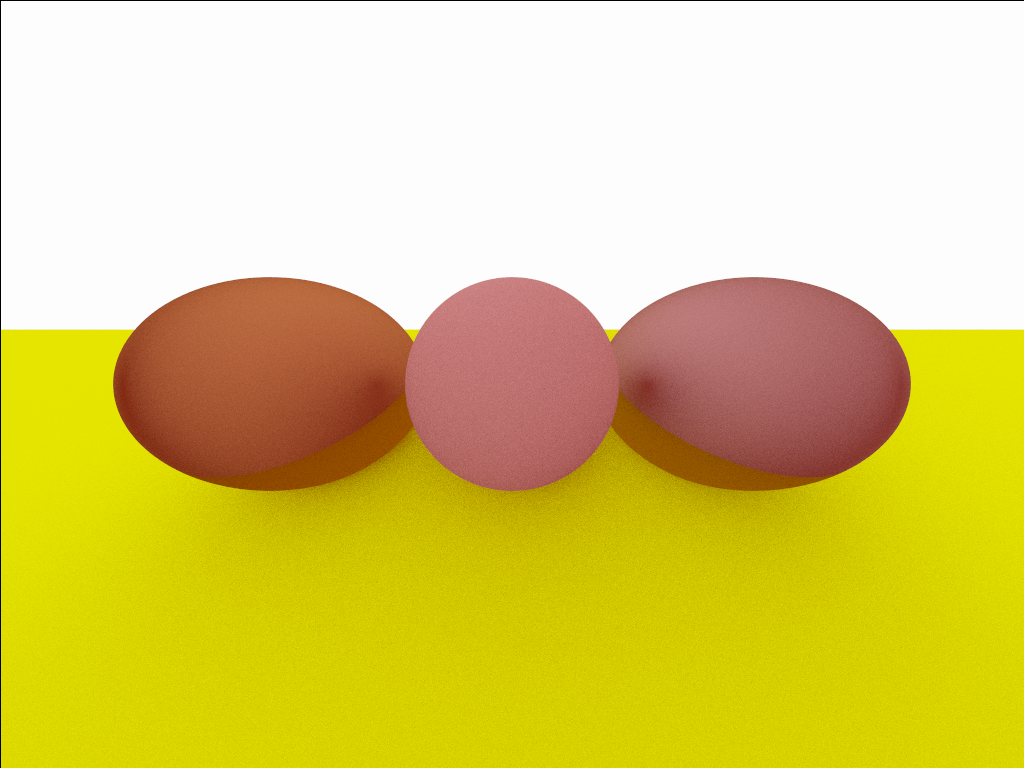
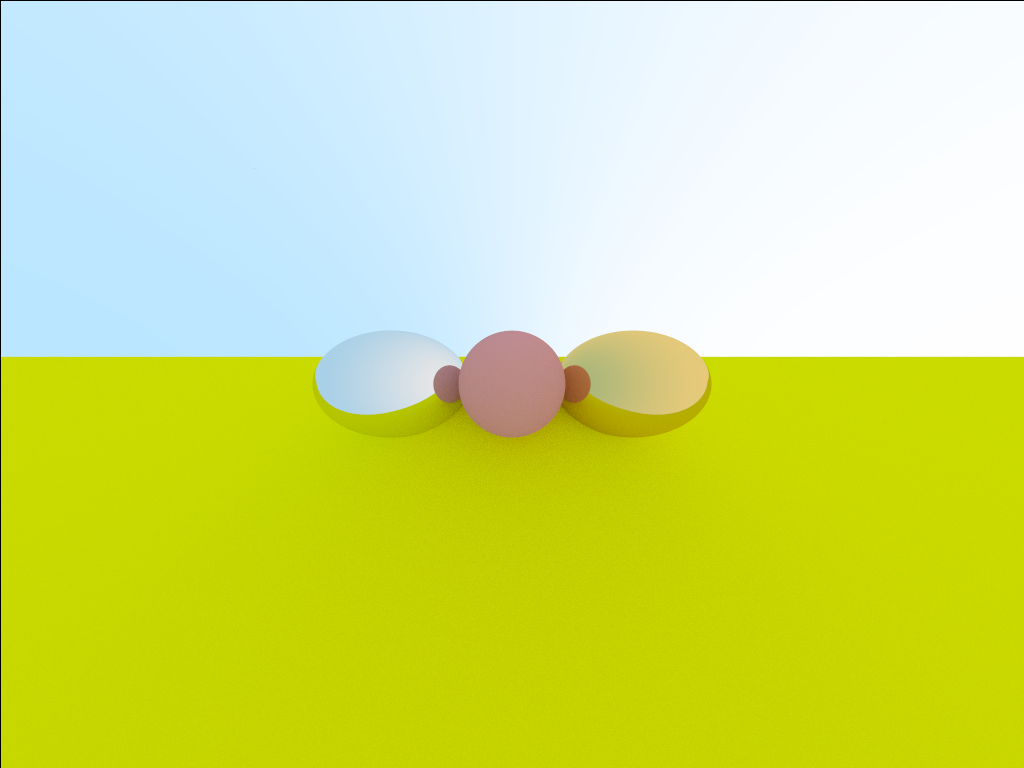
Multi-threading average + metal

diff --git a/src/main.cpp b/src/main.cpp
@@ -3,6 +3,7 @@
 #include <memory>
 #include <string>
 #include <cstdlib>
+#include <thread>
 
 #include "Define.h"
 #include "Vector3.h"
@@ -20,42 +21,49 @@ int main(){
 // Set the random seed
 srand( (unsigned)time(NULL) );
 
-
 // Create the camera
 Triplet cam_pos(-1.5,0,1.5);
 Triplet cam_look(0,0,0);
 Vector3 cam_vec(cam_pos, cam_look);
-Camera camera(cam_vec, 1., 1024, 768, 0.005, Colour(0,0,0));
+int scale = 1;
+Camera camera(cam_vec, 1., 1024/scale, 768/scale, scale*0.01, Colour(0,0,0));
 
 // Create the materials
-auto material_ground = std::make_shared<Lambertian>(Colour(0.8, 0.8, 0));
+auto material_ground = std::make_shared<Lambertian>(Colour(0.8, 0.8, 0.0));
 auto material_center = std::make_shared<Lambertian>(Colour(0.7, 0.3, 0.3));
 auto material_left   = std::make_shared<Metal>(Colour(0.8, 0.8, 0.8));
 auto material_right  = std::make_shared<Metal>(Colour(0.8, 0.6, 0.2));
 
 // Create the objects
 Hittable_list scene;
-Triplet A(-3.0,  0.0,-0.5);
-Triplet B( 2.0,-50.0,-0.5);
-Triplet C( 2.0, 50.0,-0.5);
+Triplet A(-20.0,  0.0, -0.5);
+Triplet B( 2.0, -50.0, -0.5);
+Triplet C( 2.0,  50.0, -0.5);
+
 scene.add(std::make_shared<Triangle>(A, B, C, material_ground));
-scene.add(std::make_shared<Sphere>(Triplet( 0.0, 0.0, 0.0), 1, material_center));
-scene.add(std::make_shared<Sphere>(Triplet( 0.0,-2.0, 0.0), 1, material_left));
-scene.add(std::make_shared<Sphere>(Triplet( 0.0, 2.0, 0.0), 1, material_right));
+scene.add(std::make_shared<Sphere>(Triplet( 0.0,    2.0,    0.0),   1.0, material_left));
+scene.add(std::make_shared<Sphere>(Triplet( 0.0,    0.0,    0.0),   1.0, material_center));
+scene.add(std::make_shared<Sphere>(Triplet( 0.0,   -2.0,    0.0),   1.0, material_right));
 
-
-//  Triangle tri(A,B,C,Colour(255,255,255));
-//
-//  Triplet c(0,0,0);
-//  Sphere sph(c, 1, Colour(0,255,0));
-//
-//  scene.add(std::make_shared<Triangle>(A,B,C,Colour(255,255,255)));
-//  scene.add(std::make_shared<Sphere>(sph));
 
 // Render
 const unsigned int max_depth=50;
-const unsigned int ray_per_pixel= 100;
-camera.render(scene, ray_per_pixel, max_depth);
+const unsigned int ray_per_pixel=20;
+
+// Multi-threading
+int n_procs = (int)std::thread::hardware_concurrency();
+//n_procs = 1;
+if (n_procs==1)
+  camera.render(scene, ray_per_pixel, max_depth, 1);
+else{
+  std::vector<std::thread> procs;
+
+  for(int i=0; i<n_procs; i++)
+    procs.push_back(std::thread(&Camera::render, &camera, scene, ray_per_pixel, max_depth, n_procs));
+
+  for(int i=0; i<n_procs; i++)
+    procs[i].join();
+}
 
 // Save Image
 const std::string filename = "Image.ppm";

diff --git a/src/Camera.cpp b/src/Camera.cpp
@@ -45,7 +45,7 @@ Camera::Camera(const Vector3 &pos_, const double &dist_, \
               const double &pix_size_, const Colour &bg_)\
     : dir(pos_), dist_screen(dist_), screen(pix_size_, w_, h_, dir), img(w_, h_, bg_) {}
 
-void Camera::render(const Hittable_list &scene_, const unsigned int rpp_, const unsigned int &max_depth_) const {
+void Camera::render(const Hittable_list &scene_, const unsigned int rpp_, const unsigned int &max_depth_, const int n_procs_) const {
   Triplet center_screen = dir(dist_screen/dir.norm());
   Triplet S = dir.start;
   Triplet E;
@@ -57,14 +57,13 @@ void Camera::render(const Hittable_list &scene_, const unsigned int rpp_, const 
     std::cerr << "\rProgress: " << (int)100*i/screen.w << "% " << std::flush;
     for (unsigned int j=1; j<screen.h; j++){
       colour = Colour(0,0,0);
-      for(unsigned int k=1; k<rpp_; k++){
+      for(unsigned int k=0; k<rpp_; k++){
         E = center_screen + screen.rand_pixel_pos(i,j);
         ray = Vector3(S,E);
-        hit_record rec;
         colour += calculate_colour(ray, scene_, max_depth_)/(double)rpp_;
       }
       gamma_correction(colour, gamma);
-      img.set(i,j,colour);
+      img.set(i,j,colour/n_procs_);
     }
   }
 }

diff --git a/src/Utilities.cpp b/src/Utilities.cpp
@@ -11,11 +11,15 @@
 
 Triplet random_vector_unit_half_sphere(Triplet normal_){
   // Creates a vector perpendicular to the normal
-  // i.e. V.dot(N) = 0
-  normal_ = Triplet(my_rand(), my_rand(), my_rand());
-  normal_ = normal_.unit();
-  double vz = -(normal_.x() + normal_.y())/normal_.z();
-  Triplet k(1, 1, vz);
+  // i.e. k.dot(N) = 0
+  // k = rand
+  Triplet k(my_rand(), my_rand(), my_rand());
+  if (normal_.z() != 0)
+    k.z() = - (k.x()*normal_.x()+k.y()*normal_.y())/normal_.z();
+  else if (normal_.y() != 0)
+    k.y() = - (k.x()*normal_.x()+k.z()*normal_.z())/normal_.y();
+  else if (normal_.x() != 0)
+    k.x() = - (k.y()*normal_.y()+k.z()*normal_.z())/normal_.x();
   k = k.unit();
 
   // Generate the rotation angles
@@ -45,7 +49,7 @@ Colour calculate_colour(const Vector3 &ray_, const Hittable &scene_, int depth_)
     return Colour(0,0,0);
   }
   double x = 0.5*(ray_.unit().y() + 1.0);
-  return (1-x)*Colour(255,255,255) + x * Colour(128, 200, 255);
+  return (1-x)*Colour(1.,1.,1.) + x * Colour(0.5, 0.8, 1.);
 }
 
 void gamma_correction(Colour &colour_, double gamma_){

diff --git a/src/Colour.cpp b/src/Colour.cpp
@@ -70,9 +70,9 @@ Colour Colour::operator* (const double &scale) const{
 }
 
 Colour Colour::operator* (const Colour &c2) const{
-  double r = std::max(std::min(r_*c2.r_, 1.), 0.);
-  double g = std::max(std::min(g_*c2.g_, 1.), 0.);
-  double b = std::max(std::min(b_*c2.b_, 1.), 0.);
+  double r = r_*c2.r_;
+  double g = g_*c2.g_;
+  double b = b_*c2.b_;
   return Colour(r, g, b);
 }
 
@@ -117,9 +117,6 @@ Colour Colour::operator*= (const Colour &c2){
   r_ *= c2.r_;
   g_ *= c2.g_;
   b_ *= c2.b_;
-  r_ = std::max(std::min(r_, 1.), 0.);
-  g_ = std::max(std::min(g_, 1.), 0.);
-  b_ = std::max(std::min(b_, 1.), 0.);
   return *this;
 }
 

diff --git a/src/Hittable.cpp b/src/Hittable.cpp
@@ -49,7 +49,7 @@ bool Triangle::intersect(const Vector3 &ray_, double t_min_, double t_max_, hit_
   if (t<t_min_ || t>t_max_)
     return 0;
 
-  rec_.set(ray_, t, this->normal(), this->mat_ptr);
+  rec_.set(ray_, t, normal(), mat_ptr);
   return 1;
 }
 
@@ -90,7 +90,7 @@ bool Sphere::intersect(const Vector3 &ray_, double t_min_, double t_max_, hit_re
       return 0;
   }
 
-  rec_.set(ray_, t, this->normal(ray_(t)), this->mat_ptr);
+  rec_.set(ray_, t, normal(ray_(t)), mat_ptr);
   return 1;
 }
 

diff --git a/src/Image.cpp b/src/Image.cpp
@@ -8,7 +8,6 @@ Image::Image(const unsigned &w_, const unsigned &h_, const Colour &bg_ = Colour(
     pixels[i] = bg_;
 }
 
-
 Image::~Image(){
   if (pixels!=NULL)
     delete [] pixels;
@@ -16,7 +15,7 @@ Image::~Image(){
 
 void Image::set(const unsigned int &i, const unsigned int &j, const Colour &c) const {
   if (i<w && j<h)
-    this->pixels[j*w+i] = c;
+    pixels[j*w+i] += c;
 }
 
 void Image::save_PPM(const std::string &filename) const {

diff --git a/include/Camera.h b/include/Camera.h
@@ -41,7 +41,7 @@ class Camera{
 
     // Methods
     // t_min_ and t_max_ are the distances from the position of the camera
-    void render(const Hittable_list &scene_, const unsigned int ray_per_pixel_, const unsigned int &max_depth_) const;
+    void render(const Hittable_list &scene_, const unsigned int ray_per_pixel_, const unsigned int &max_depth_, const int n_procs_) const;
     void save_image(const std::string &filename);
 };
 

diff --git a/src/Material.cpp b/src/Material.cpp
@@ -18,6 +18,7 @@ Metal::Metal(const Colour &c_) : albedo(c_) {}
 
 bool Metal::scatter(const Vector3 &ray_, const hit_record &rec_, Colour &attenuation_, Vector3 &scattered_) const {
   scattered_ = reflect(ray_, rec_.n);
+  scattered_.start = rec_.p;
   attenuation_ = albedo;
-  return (dot(scattered_, rec_.n) > 0);
+  return (dot(scattered_,rec_.n) > 0);
 }

diff --git a/include/Material.h b/include/Material.h
@@ -6,8 +6,6 @@
 struct hit_record;
 
 class Material {
-  private:
-    Colour c;
   public:
     virtual bool scatter(const Vector3 &ray_, const hit_record &rec_, Colour &attenuation_, Vector3 &scattered_) const = 0;
 };
